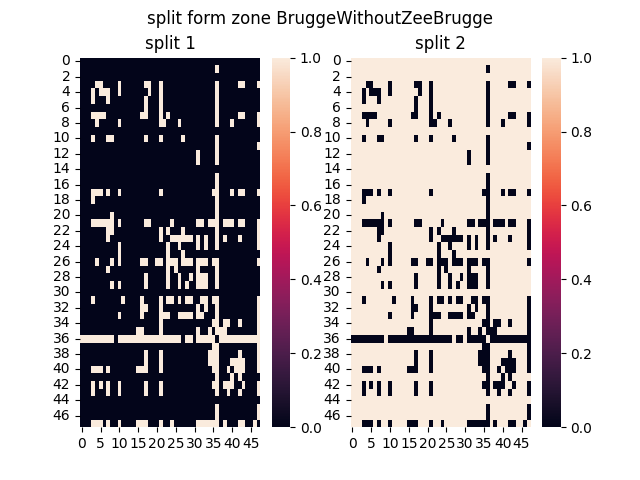
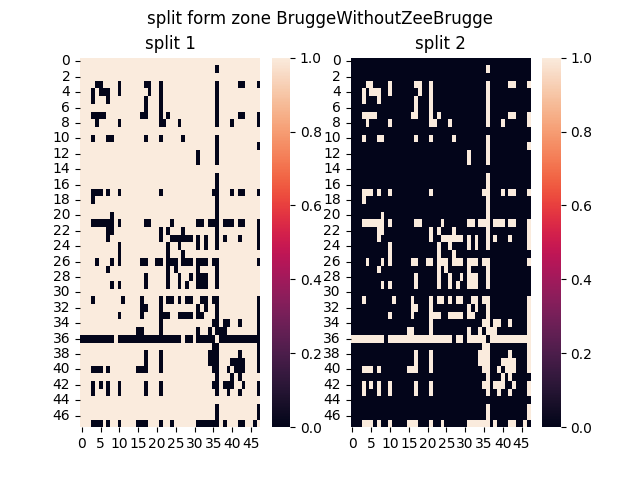
minor bug fix

diff --git a/newCode/main.py b/newCode/main.py
@@ -25,7 +25,7 @@ def main():
     intercepts = []
 
     plot = True
-    heatmap = False
+    heatmap = True
 
     tomtomData = {}
     originalData = {}
@@ -53,7 +53,7 @@ def main():
 
         if heatmap:
             heatmaps(original_od, tomtom_od, zone, 'original', 'tomtom')  
-            heatmaps(shapes[0], shapes[1], 'split form zone {}'.format(zone), 'split 1', 'split 2')
+            heatmaps(shapes[1], shapes[0], 'split form zone {}'.format(zone), 'split 1', 'split 2')
 
         approx_matrix = np.zeros(tomtom_od.shape)
         for i  in range(len(shapes)):
